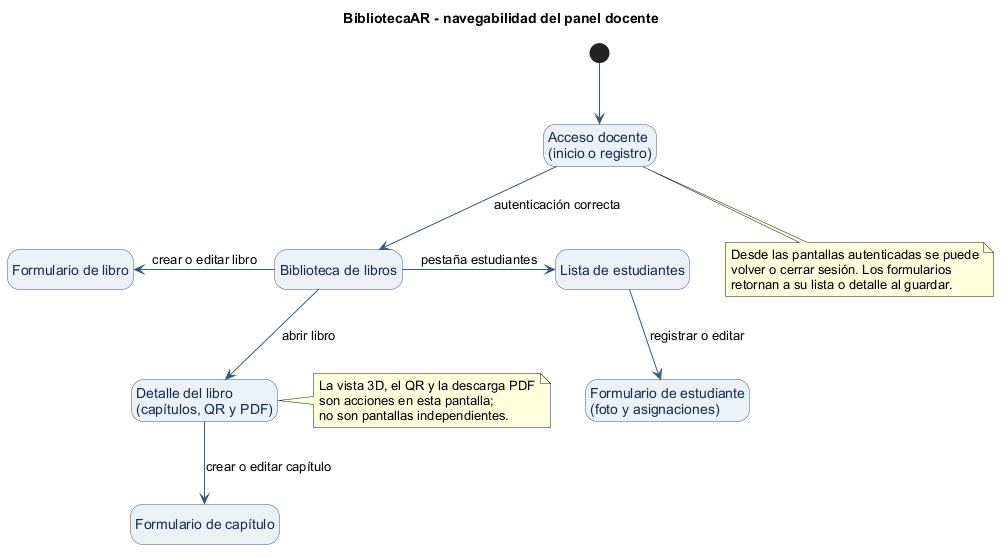
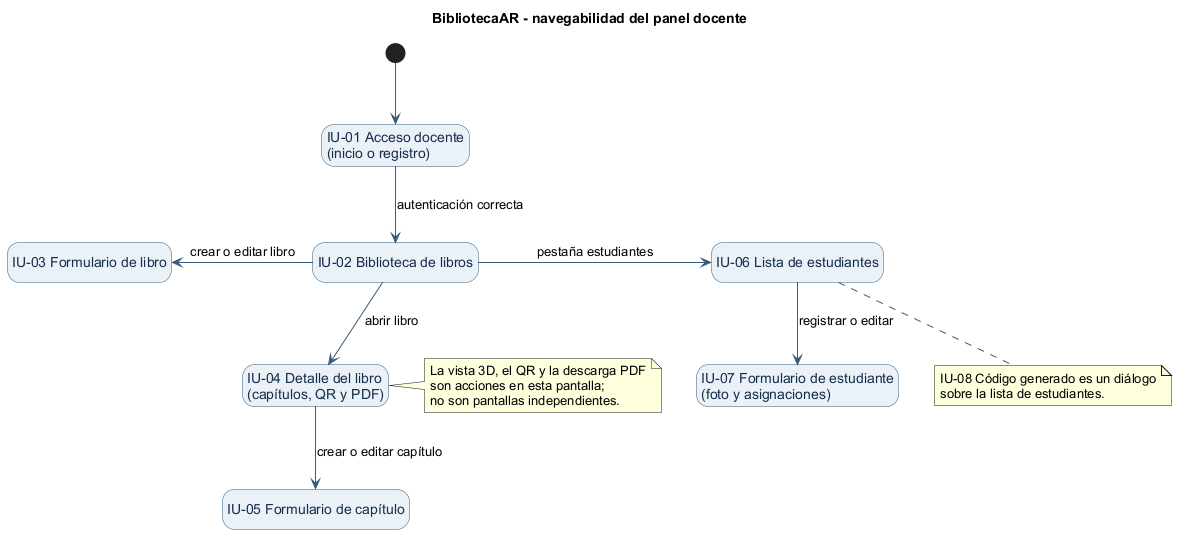
Add thesis interface catalog and navigation IDs

diff --git a/docs/tesis/catalogo-interfaces.md b/docs/tesis/catalogo-interfaces.md
@@ -1,0 +1,27 @@
+# Catálogo de interfaces de BibliotecaAR
+
+BibliotecaAR tiene un panel web para docentes y una aplicación Android para estudiantes. La aplicación móvil también ofrece una vista docente para ajustar el modelo 3D sobre la página. Las interfaces se identifican con códigos `IU-nn` para relacionarlas con el [diagrama de navegabilidad web](diagramas/07-navegacion-panel-docente.png) y el [diagrama de navegabilidad móvil](diagramas/08-navegacion-app-movil.png). Los códigos `IU-01` a `IU-08` pertenecen al panel web; `IU-09` a `IU-17`, a la aplicación móvil.
+
+| Código | Interfaz | Función principal |
+| --- | --- | --- |
+| IU-01 | Acceso y registro docente | Permite iniciar sesión o crear una cuenta docente desde el panel web. |
+| IU-02 | Biblioteca de libros | Muestra los libros del catálogo y permite buscarlos, filtrarlos, ordenarlos, abrirlos o crear uno nuevo. |
+| IU-03 | Formulario de libro | Permite crear o editar título, descripción, portada y estado de publicación. |
+| IU-04 | Detalle de libro | Presenta sus capítulos y permite editar contenido, consultar el QR, descargar el PDF imprimible y abrir la vista previa 3D del GLB. |
+| IU-05 | Formulario de capítulo | Permite editar texto, audio, modelo 3D, animación al toque y medidas de colocación sobre la página. |
+| IU-06 | Lista de estudiantes | Permite buscar y filtrar perfiles, abrir su edición y generar un nuevo código de acceso. |
+| IU-07 | Formulario de estudiante | Permite registrar o editar nombre, aula, fotografía, estado y libros asignados. |
+| IU-08 | Código de acceso generado | Ventana emergente que muestra el código nuevo una sola vez y permite copiarlo. |
+| IU-09 | Acceso del estudiante | Permite identificarse con el código personal o el acceso facial experimental y elegir si se recuerda el dispositivo. |
+| IU-10 | Biblioteca del estudiante | Muestra libros asignados, libros explorados y la opción de retomar la última lectura; permite abrir el escáner QR. |
+| IU-11 | Libro y capítulos | Muestra la descripción del libro, la lista de capítulos y el estado de lectura de cada uno. |
+| IU-12 | Lectura del capítulo | Presenta el texto, permite escuchar o pausar el audio, marcar el capítulo como leído y abrir la experiencia AR. |
+| IU-13 | Escáner QR | Usa la cámara para leer el código del capítulo y muestra indicaciones o acciones de recuperación si falla el escaneo. |
+| IU-14 | Escena de realidad aumentada | Sitúa el modelo 3D sobre el marcador reconocido y ofrece narración, audio, mensajes de seguimiento y registro del avance. |
+| IU-15 | Acceso docente móvil | Autentica al docente para la vista de ajuste del modelo sobre una página real. |
+| IU-16 | Vista docente activa | Permite iniciar el escaneo del capítulo que se desea ajustar o salir de la vista docente. |
+| IU-17 | Ajuste del modelo en AR | Panel superpuesto a la escena AR que permite modificar medida del marcador, tamaño, posición y giro del modelo, guardar y volver a verlo. |
+
+**Criterio de catalogación.** `IU-08` es una ventana emergente y `IU-17` es un panel superpuesto. Los formularios de inicio y registro docente comparten `IU-01`; el acceso por código y por rostro comparten `IU-09`. El visor GLB, la tarjeta QR y la descarga PDF son acciones dentro de `IU-04` o `IU-05`, no pantallas independientes. Los estados de carga y error aparecen dentro de las interfaces correspondientes. El acceso facial está implementado como función experimental y no equivale a una validación biométrica de producción.
+
+*Fuente: elaboración propia a partir del código de BibliotecaAR, BiblitoecaAR-fronted y BibliotecaAR-backend, revisado el 29 de octubre de 2026.*

diff --git a/README.md b/README.md
@@ -27,6 +27,8 @@ El [diagrama de paquetes del proyecto](docs/diagrama-paquetes.md) muestra las re
 
 Las [figuras para la tesis](docs/tesis/diagramas/README.md) comparan los tipos de diagramas presentes en los borradores, señalan los que faltaban en el de Alejandro y ofrecen versiones editables, PNG y SVG basadas en el código actual.
 
+El [catálogo de interfaces](docs/tesis/catalogo-interfaces.md) identifica las vistas web y móviles con códigos IU. También está disponible [en Word](docs/tesis/catalogo-interfaces.docx) para incorporarlo a la tesis.
+
 **Vocabulario:** un «capítulo» del panel es un registro `Scene` de Django. No es una escena Unity: `QRScanScene` y `ARScene` son las pantallas del cliente móvil. El QR contiene un identificador, no una URL. `prefab_key` identifica un recurso local Unity; `glb_model` es un archivo descargable.
 
 ## 2. Tecnologías y estructura

diff --git a/docs/tesis/diagramas/README.md b/docs/tesis/diagramas/README.md
@@ -2,6 +2,8 @@
 
 Estas figuras se prepararon a partir del código de los tres repositorios de BibliotecaAR y de la comparación visual de los tres borradores de tesis entregados el 29 de octubre de 2026. Los PDF de los compañeros sirvieron para identificar **tipos de figuras**; los procesos y las entidades de estas figuras corresponden al proyecto de Alejandro Josué Phocco Tapia.
 
+El [catálogo de interfaces](../catalogo-interfaces.md) usa los códigos IU que aparecen en los diagramas de navegabilidad. También existe una [versión Word](../catalogo-interfaces.docx) lista para copiar en la tesis.
+
 ## Qué hay en los borradores
 
 | Tipo de figura | Tesis de Alejandro | Referencia 1 | Referencia 2 | Acción |
